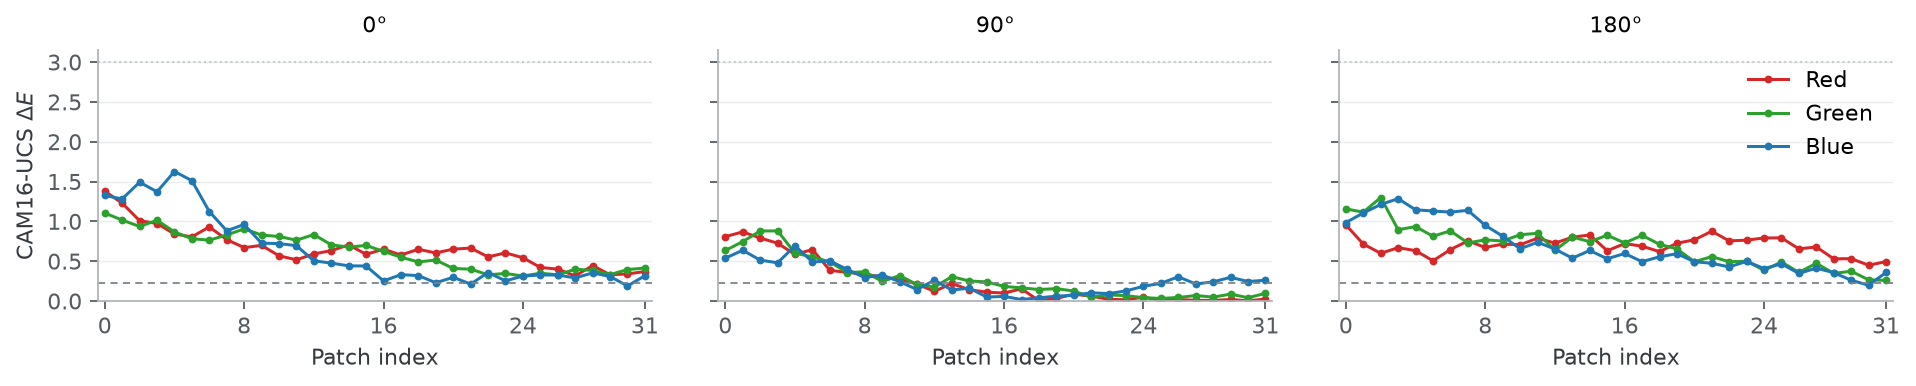
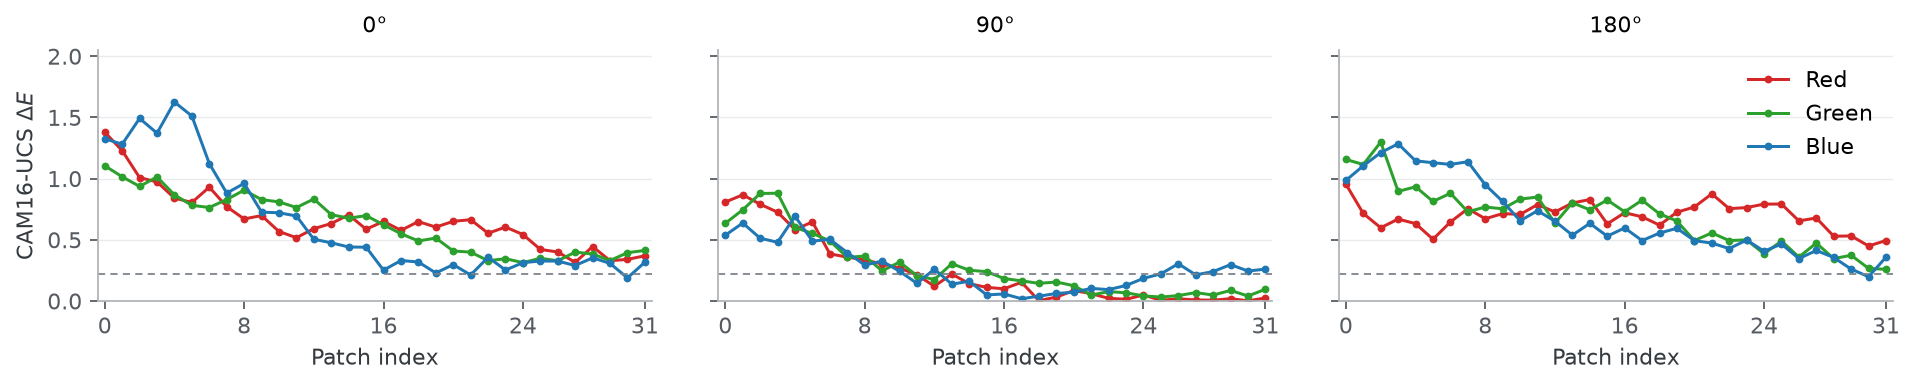
doc: spectra limits - updated graph y max value

diff --git a/doc/overcoming-spectrophotometer-measurement-limitations/scripts/5_evaluate_method.py b/doc/overcoming-spectrophotometer-measurement-limitations/scripts/5_evaluate_method.py
@@ -82,9 +82,8 @@ if name == "cleaning":
                               color=RAMP_COLOURS[ramp], marker="o", markersize=2.5,
                               linewidth=1.35, label="Grey" if ramp == "White" else ramp)
                 axis.axhline(reference, color="#7b8288", linestyle=(0, (4, 3)), linewidth=0.8)
-                axis.axhline(3, color="#c5c8cb", linestyle=":", linewidth=0.9)
-                axis.set(xlim=(-0.4, 31.4), ylim=(0, 3.15), xticks=(0, 8, 16, 24, 31),
-                         yticks=(0, 0.5, 1, 1.5, 2, 2.5, 3), xlabel="Patch index")
+                axis.set(xlim=(-0.4, 31.4), ylim=(0, 2.05), xticks=(0, 8, 16, 24, 31),
+                         yticks=(0, 0.5, 1, 1.5, 2), xlabel="Patch index")
                 axis.set_title(label, fontsize=10, pad=8)
                 axis.grid(axis="y", color="#e9ebed", linewidth=0.6)
                 axis.set_axisbelow(True)

diff --git a/doc/overcoming-spectrophotometer-measurement-limitations/README.md b/doc/overcoming-spectrophotometer-measurement-limitations/README.md
@@ -271,7 +271,7 @@ Run `python scripts/5_evaluate_method.py --method cleaning` from this article's 
 
 #### All readings
 
-Raw versus cleaned spectra: all 672 measurements, shown separately by instrument orientation. The dashed line is the historical repeatability p95 (0.22), not a significance threshold. The dotted line at 3 is an approximate visibility guide; visibility depends on viewing conditions. All panels use the same scale.
+Raw versus cleaned spectra: all 672 measurements, shown separately by instrument orientation. The dashed line is the historical repeatability p95 (0.22), not a significance threshold. All panels use the same scale, from 0 to 2.
 
 ![Cleaning: primary ramp colour differences](img/method_cleaning_delta_e_primaries.png)
 
